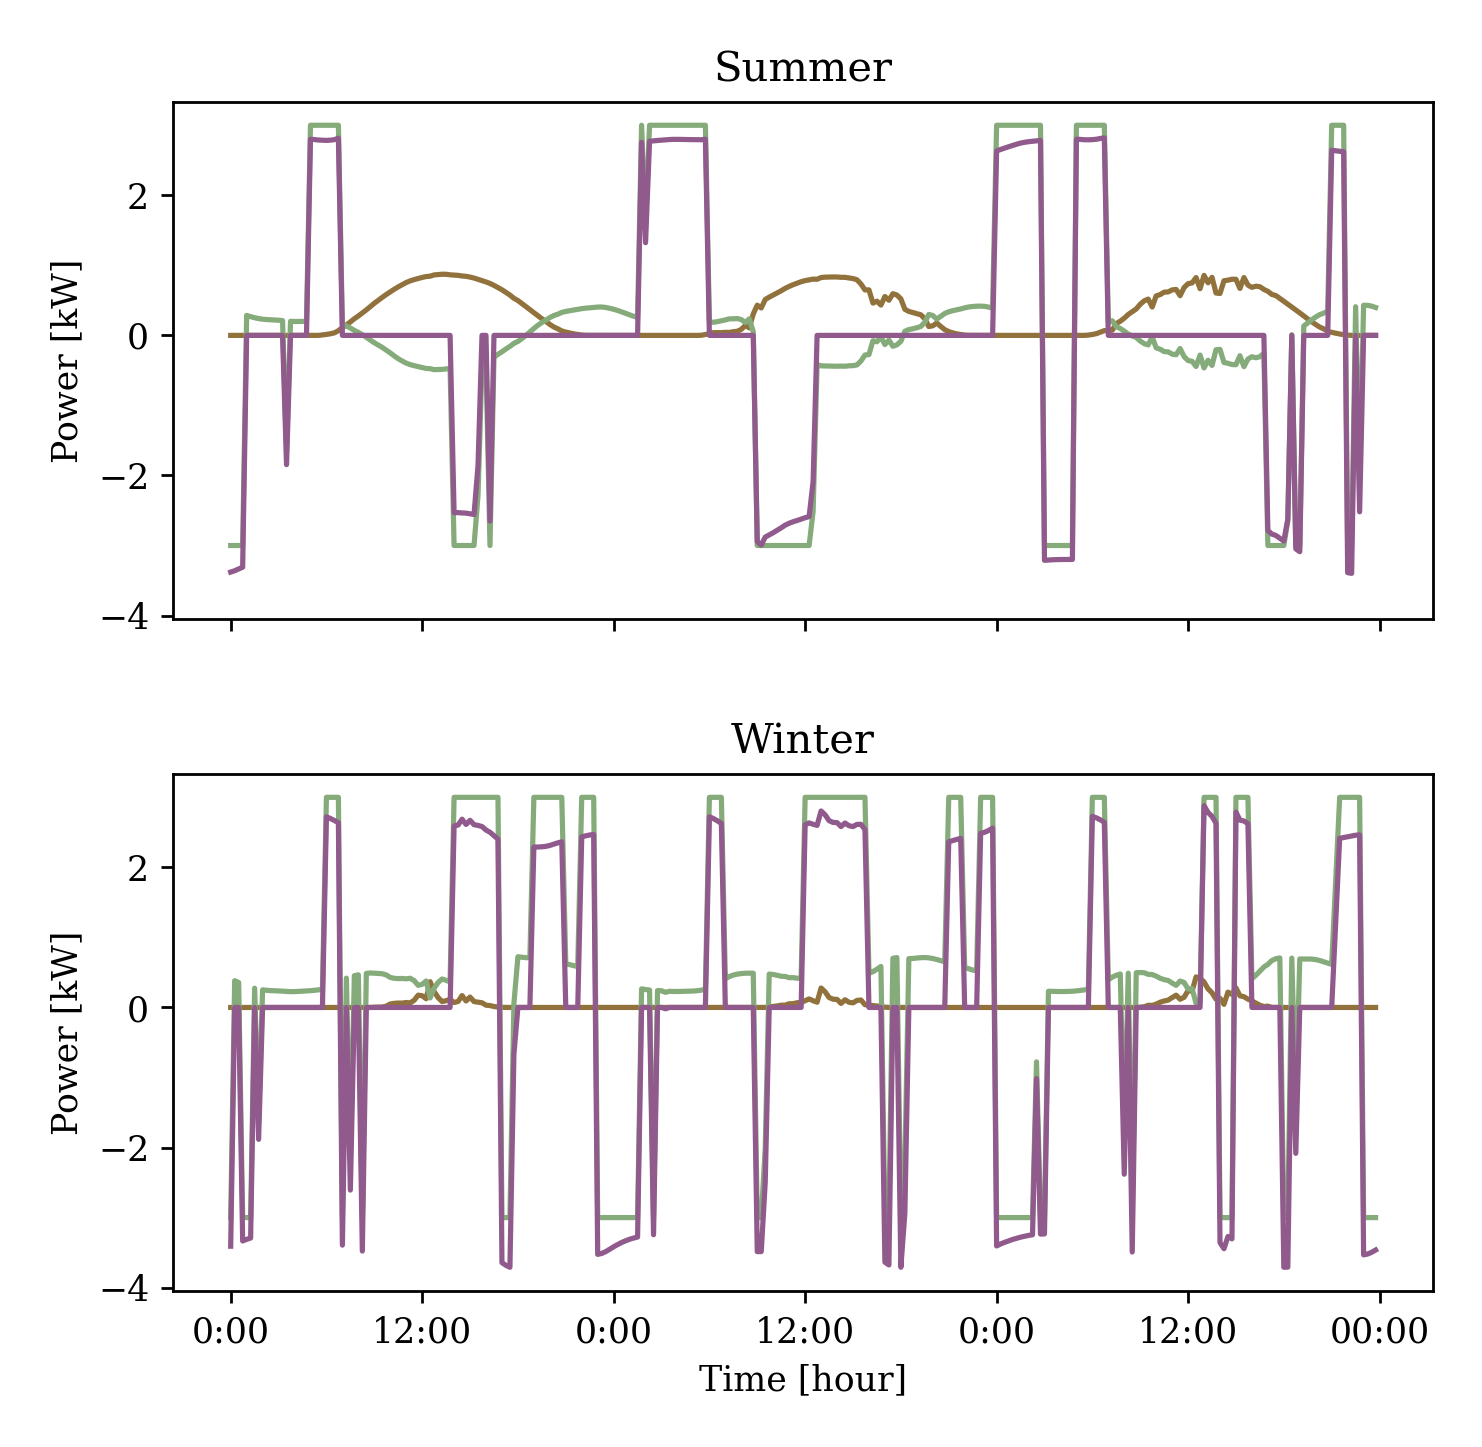
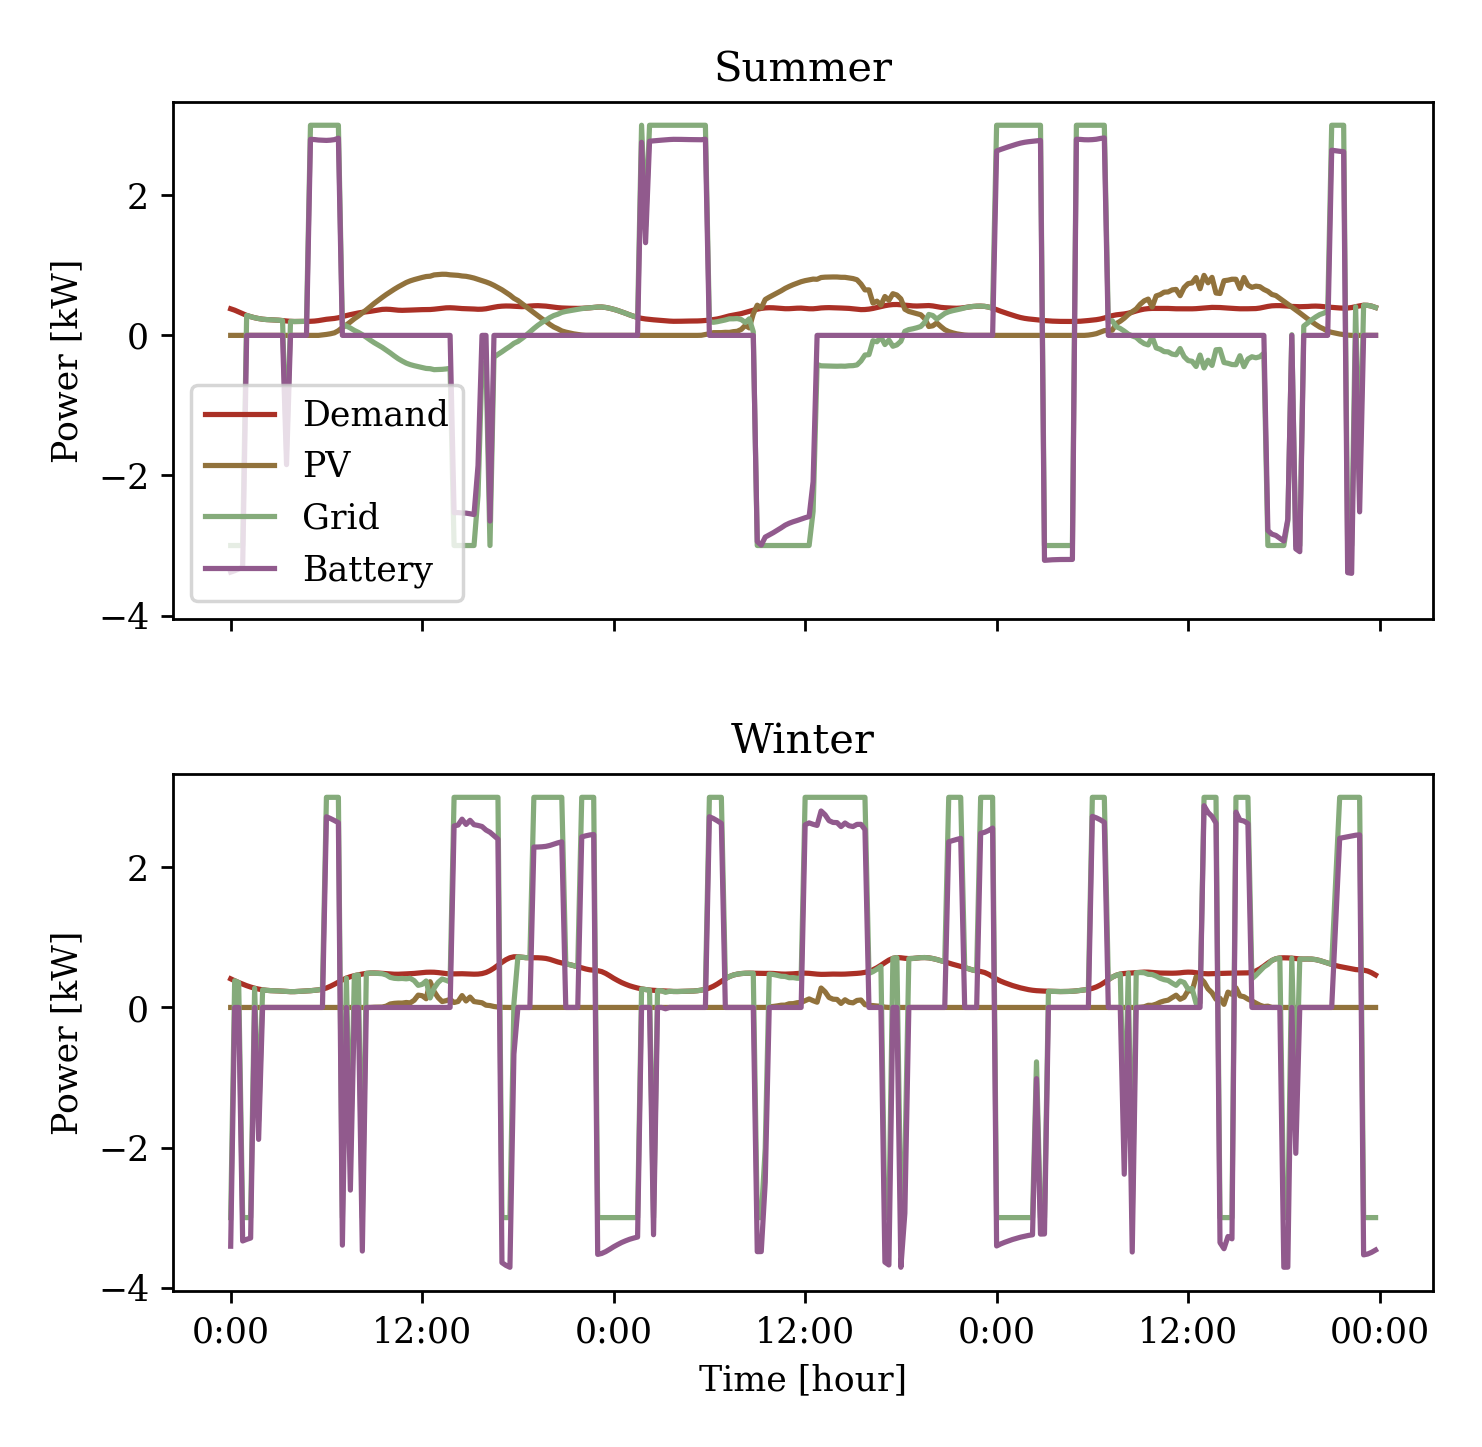
fix: Add legends to the plots

diff --git a/src/question2.py b/src/question2.py
@@ -41,8 +41,11 @@ for index, season in enumerate(seasons):
 figure, axes = initiate_figure()
 for index, season in enumerate(results):
     subplot = initiate_subplot(axes, index, season)
-    subplot.plot(results[season].demand, color='#aa3026')
-    subplot.plot(results[season].pv_gen, color='#91723c')
+    subplot.plot(results[season].demand, color='#aa3026', label='Demand')
+    subplot.plot(results[season].pv_gen, color='#91723c', label='PV')
+
+    if index == 0:
+        subplot.legend()
 plots.savefig('../output/demand_and_pv.png')
 
 # Create a plot with the price and state of charge
@@ -52,15 +55,26 @@ for index, season in enumerate(results):
     subplot2 = subplot.twinx()
     subplot2.set_ylabel('Electricity price [€/kWh]')
 
-    subplot.plot(results[season].battery_charge, color='#aa3026')
-    subplot2.plot(results[season].price, color='#91723c')
+    plot1 = subplot.plot(results[season].battery_charge,
+                         color='#aa3026', label='State of charge')
+    plot2 = subplot2.plot(results[season].price, color='#91723c',
+                          label='Electricity price')
+
+    if index == 0:
+        allplots = plot1 + plot2
+        labels = [plot.get_label() for plot in allplots]
+        subplot.legend(allplots, labels, loc=0)
 plots.savefig('../output/price_vs_battery.png')
 
 # Create a plot with all power flows
 figure, axes = initiate_figure()
 for index, season in enumerate(results):
     subplot = initiate_subplot(axes, index, season)
-    subplot.plot(results[season].pv_gen, color='#91723c')
-    subplot.plot(results[season].grid, color='#85ab7b')
-    subplot.plot(results[season].battery_power, color='#915a8d')
+    subplot.plot(results[season].demand, color='#aa3026', label='Demand')
+    subplot.plot(results[season].pv_gen, color='#91723c', label='PV')
+    subplot.plot(results[season].grid, color='#85ab7b', label='Grid')
+    subplot.plot(results[season].battery_power,
+                 color='#915a8d', label='Battery')
+    if index == 0:
+        subplot.legend()
 plots.savefig('../output/power_flows.png')
